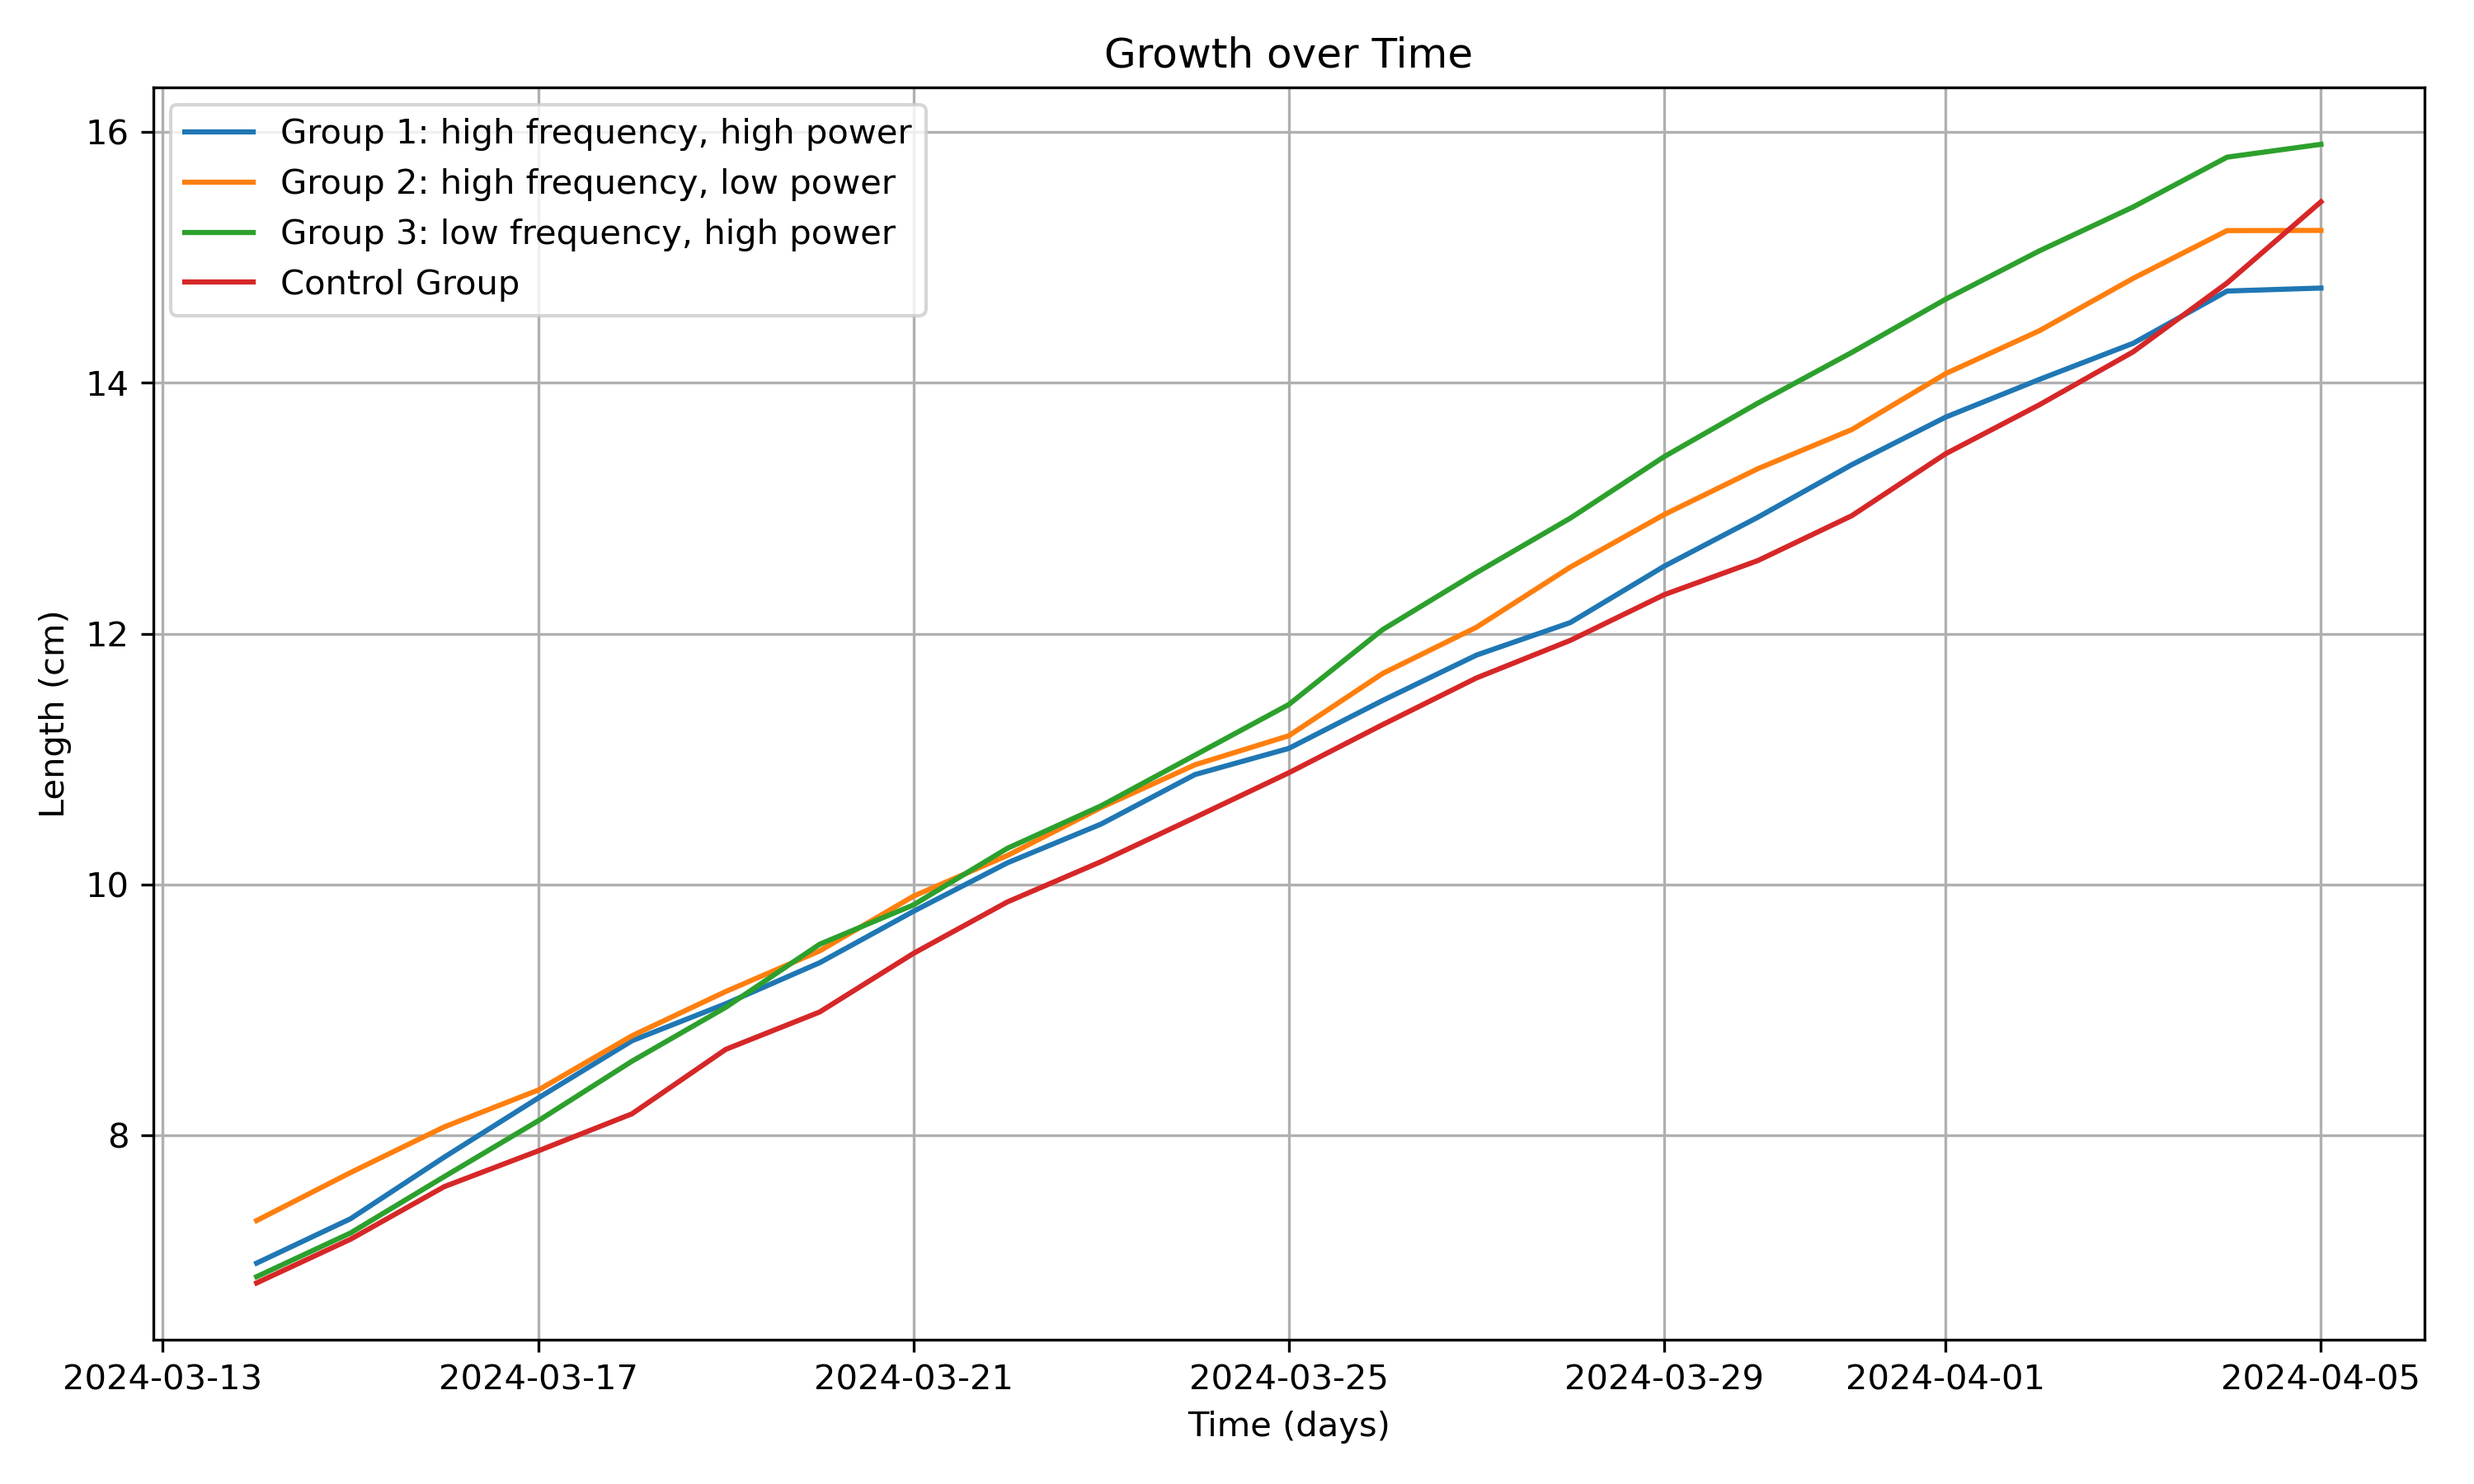
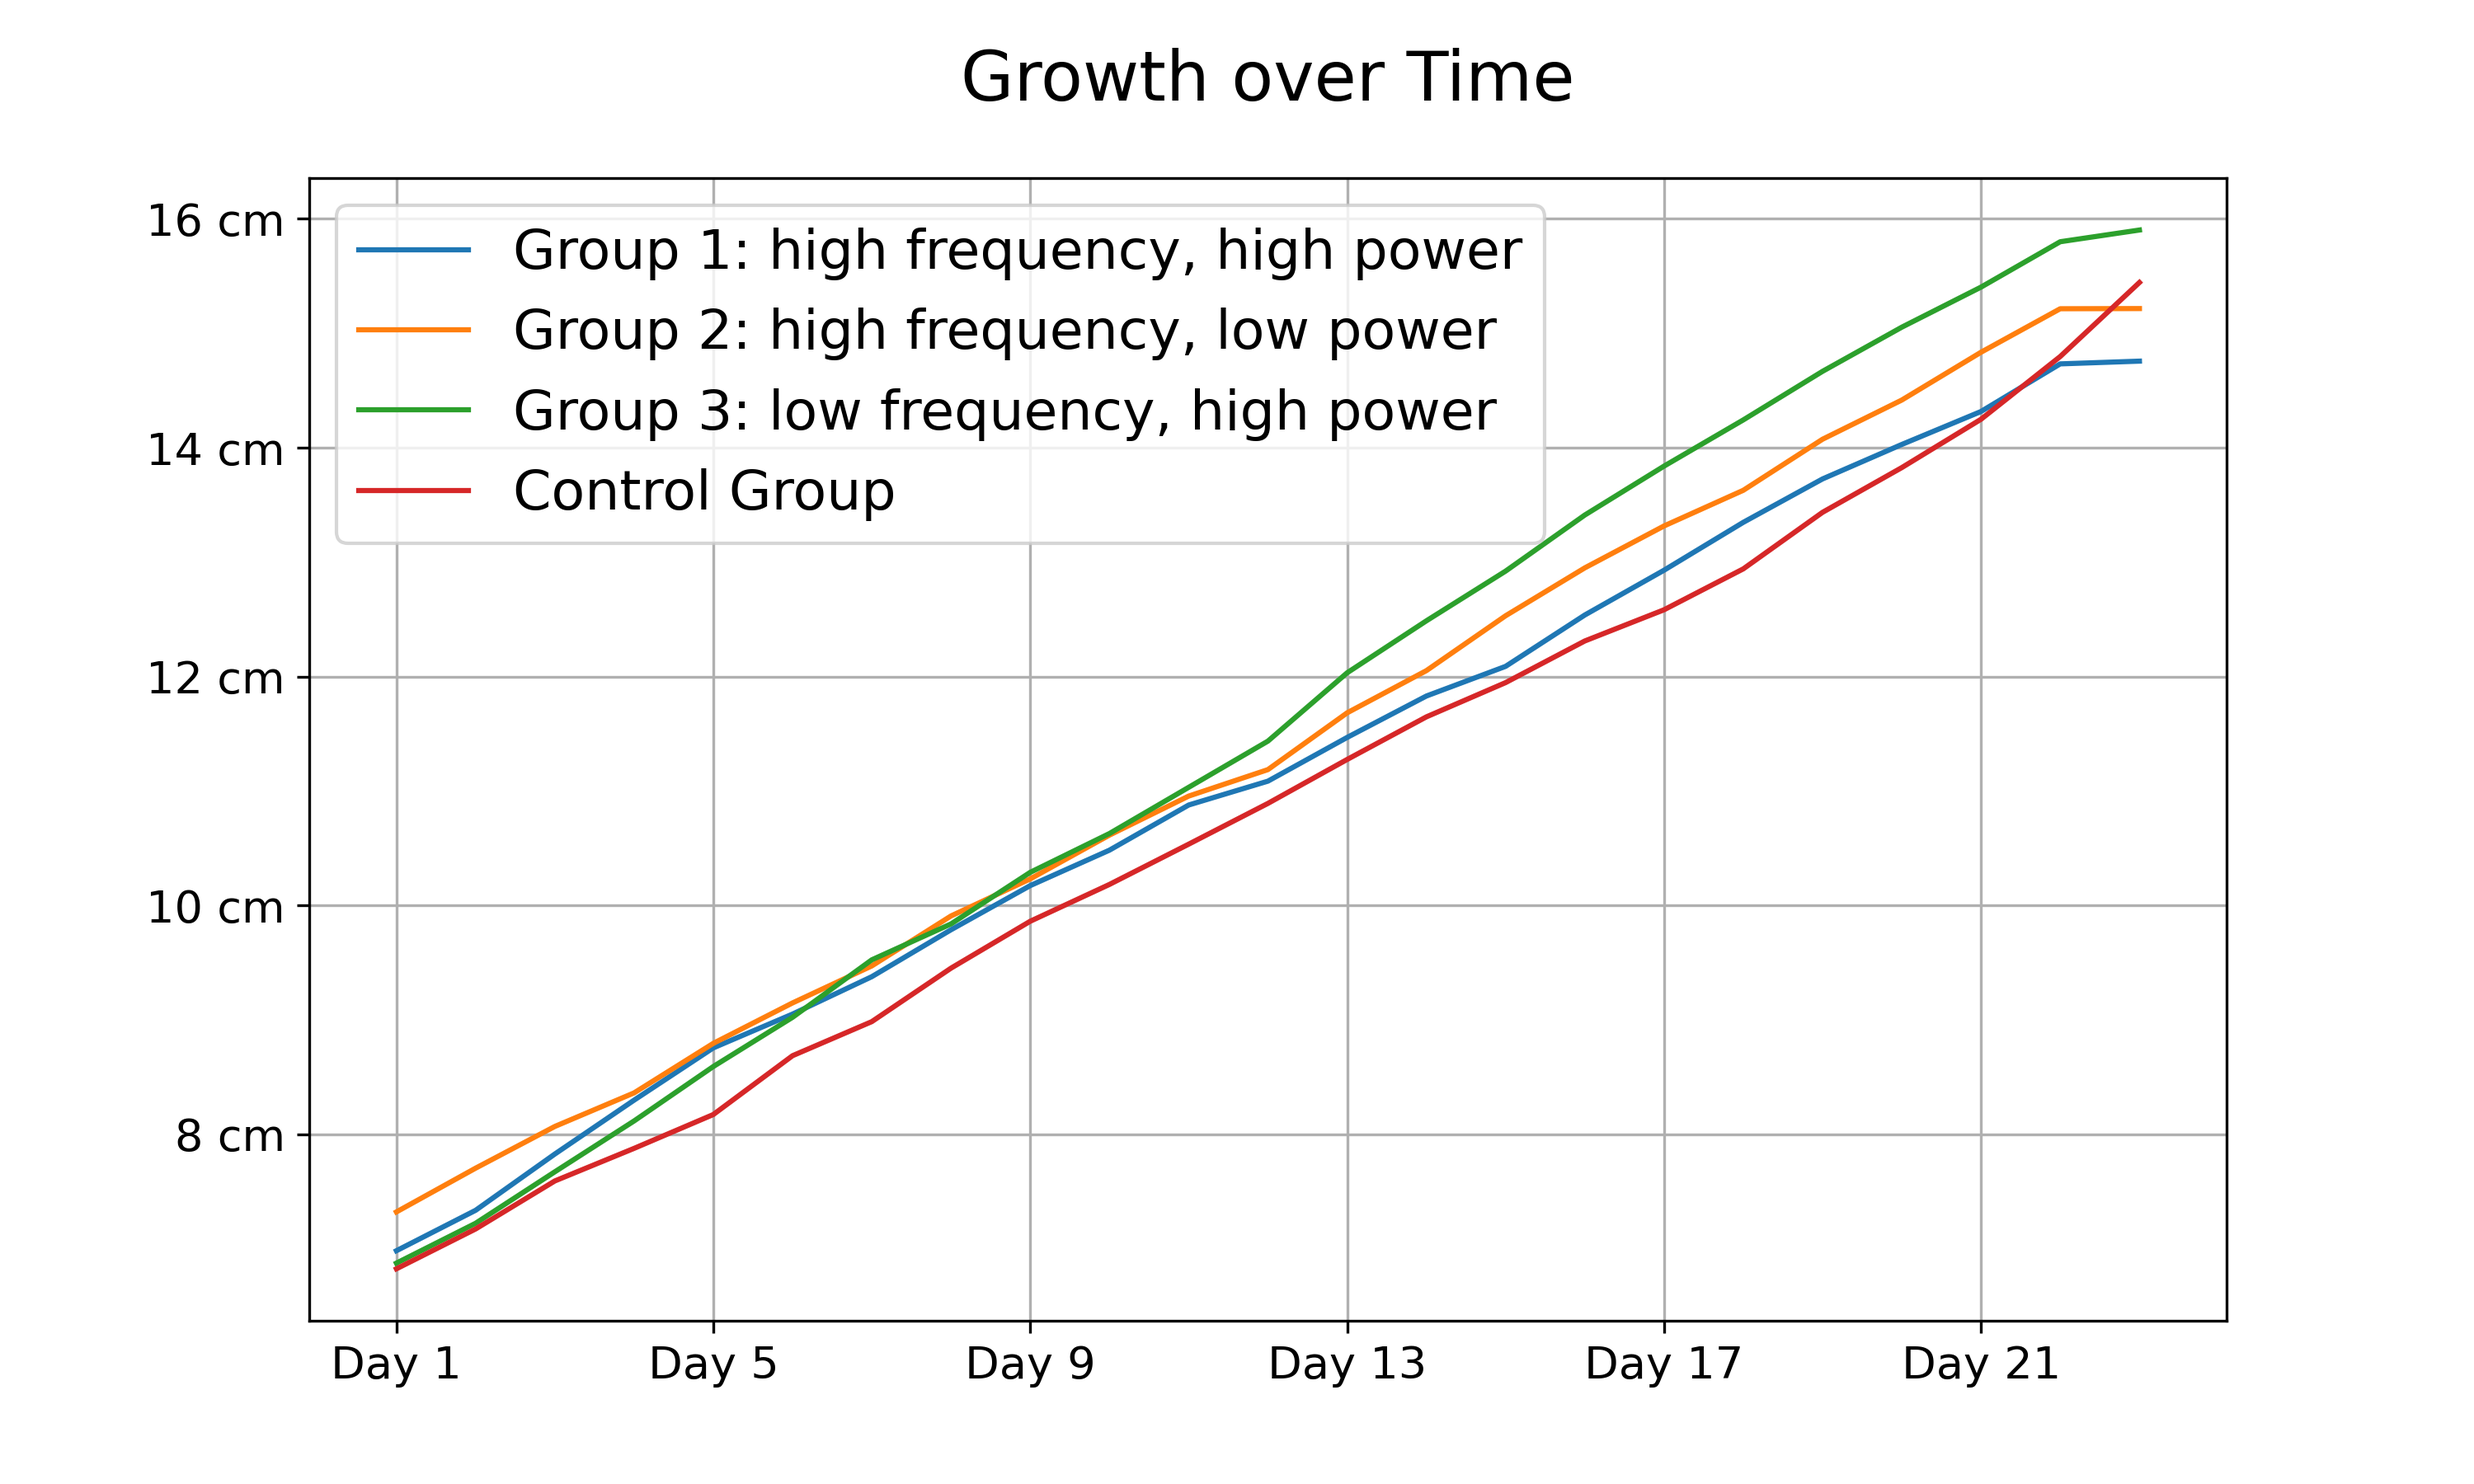
adjust layout and font sizes

diff --git a/Length/scripts/poster_plot.py b/Length/scripts/poster_plot.py
@@ -1,0 +1,76 @@
+import pandas as pd
+import matplotlib.pyplot as plt
+import os
+from matplotlib.ticker import FuncFormatter
+
+# Define parent and data directories
+parent_dir = os.path.abspath(os.path.join(os.path.dirname(__file__), os.pardir))
+data_dir = os.path.join(parent_dir, 'raw_data')
+files = ['plants_1.csv', 'plants_2.csv', 'plants_3.csv', 'plants_4.csv']
+
+output_dir = os.path.join(parent_dir, 'plots')
+os.makedirs(output_dir, exist_ok=True)
+
+# Mapping from filenames to labels and colors
+label_mapping = {
+    'plants_1.csv': ('Group 1:\nhigh frequency, high power', 'blue'),
+    'plants_2.csv': ('Group 2:\nhigh frequency, low power', 'orange'),
+    'plants_3.csv': ('Group 3:\nlow frequency, high power', 'green'),
+    'plants_4.csv': ('Control Group', 'red')
+}
+
+# Function to format y-axis labels with 'cm'
+def cm_formatter(x, pos):
+    return f'{int(x)} cm'
+
+# Set up a single figure to contain all subplots
+fig, axs = plt.subplots(2, 2, figsize=(14, 10))
+fig.suptitle('Standart Deviation', fontsize=24)
+
+# Iterate through the files and plot their datasets with mean and standard deviation
+for idx, file in enumerate(files):
+    # Read the CSV file into a DataFrame
+    df = pd.read_csv(os.path.join(data_dir, file))
+    
+    # Rename columns for easier access
+    df.columns = ['time', 'List 1', 'List 2', 'List 3', 'List 4']
+
+    # Convert 'time' column to datetime format
+    df['time'] = pd.to_datetime(df['time'], format='%d.%m.%y')
+
+    # Calculate the number of days since the first date
+    df['days'] = (df['time'] - df['time'].min()).dt.days + 1
+
+    # Calculate mean and standard deviation across the lists for each time point
+    df['mean'] = df[['List 1', 'List 2', 'List 3', 'List 4']].mean(axis=1)
+    df['std'] = df[['List 1', 'List 2', 'List 3', 'List 4']].std(axis=1)
+
+    # Plot the mean and standard deviation
+    row = idx // 2
+    col = idx % 2
+    axs[row, col].plot(df['days'], df['mean'], label=label_mapping[file][0], color=label_mapping[file][1])
+    axs[row, col].fill_between(df['days'], df['mean'] - df['std'], df['mean'] + df['std'], alpha=0.2, color=label_mapping[file][1])
+
+    # Set labels and legend for each subplot with increased font size
+    axs[row, col].legend(loc='upper left', fontsize=17)  # Increase legend text size here
+    axs[row, col].grid(True)
+
+    # Set x-ticks to every 4 days and create corresponding labels
+    xticks = df['days'][::4]
+    xtick_labels = [f'Day {day}' for day in xticks]
+    axs[row, col].set_xticks(xticks)
+    axs[row, col].set_xticklabels(xtick_labels, fontsize=13)  # Increase font size of x-tick labels
+
+    # Apply y-axis formatter to add 'cm' after each value
+    axs[row, col].yaxis.set_major_formatter(FuncFormatter(cm_formatter))
+
+    # Increase font size of tick values on both axes
+    axs[row, col].tick_params(axis='both', which='major', labelsize=14)
+
+# Adjust layout
+plt.tight_layout(rect=[0, 0.03, 1, 0.95])
+
+# Save the plot as an image file
+output_filename = os.path.join(output_dir, 'poster_plot.png')
+plt.savefig(output_filename, dpi=300)
+print(f'Combined plots with standard deviation saved to: {output_filename}')

diff --git a/Length/scripts/plot.py b/Length/scripts/plot.py
@@ -27,7 +27,7 @@ first_df['time'] = pd.to_datetime(first_df['time'])
 
 # Create the plot with the first dataset
 plt.figure(figsize=(10, 6))  # Set the figure size
-plt.plot(first_df['time'], first_df['length'], label=label_mapping.get(first_file, first_file.split(".")[0]))  # Plot data
+plt.plot(first_df.index + 1, first_df['length'], label=label_mapping.get(first_file, first_file.split(".")[0]))  # Plot data
 
 # Iterate through the remaining files and plot their datasets on the same axes
 for file in files[1:]:
@@ -38,18 +38,20 @@ for file in files[1:]:
     df['time'] = pd.to_datetime(df['time'])
 
     # Plot 'time' vs. 'length' on the same axes
-    plt.plot(df['time'], df['length'], label=label_mapping.get(file, file.split(".")[0]))  # Plot data
+    plt.plot(df.index + 1, df['length'], label=label_mapping.get(file, file.split(".")[0]))  # Plot data
 
-# Add labels and title with units
-plt.xlabel('Time (days)')  # Set the x-axis label with units
-plt.ylabel('Length (cm)')  # Set the y-axis label with units
-plt.title('Growth over Time')  # Set the title
+plt.title('Growth over Time', fontsize=20, y=1.05)  # Set the title with font size and adjusted spacing
 plt.grid(True)  # Show grid
 
-plt.legend()  # Show legend
+plt.legend(fontsize=16)  # Show legend with font size
 
-# Adjust layout
-plt.tight_layout()
+plt.xticks(range(1, len(first_df) + 1, 4), [f'Day {i}' for i in range(1, len(first_df) + 1, 4)], fontsize=13)
+
+# Format y-axis with "cm" after each value and remove decimal point if integer
+plt.gca().yaxis.set_major_formatter(plt.FuncFormatter(lambda x, _: f'{int(x) if x.is_integer() else x:.0f} cm'))
+
+# Set font size for y-axis ticks
+plt.yticks(fontsize=13)
 
 # Save the plot as an image file
 output_filename = os.path.join(output_dir, 'combined_plots.png')
